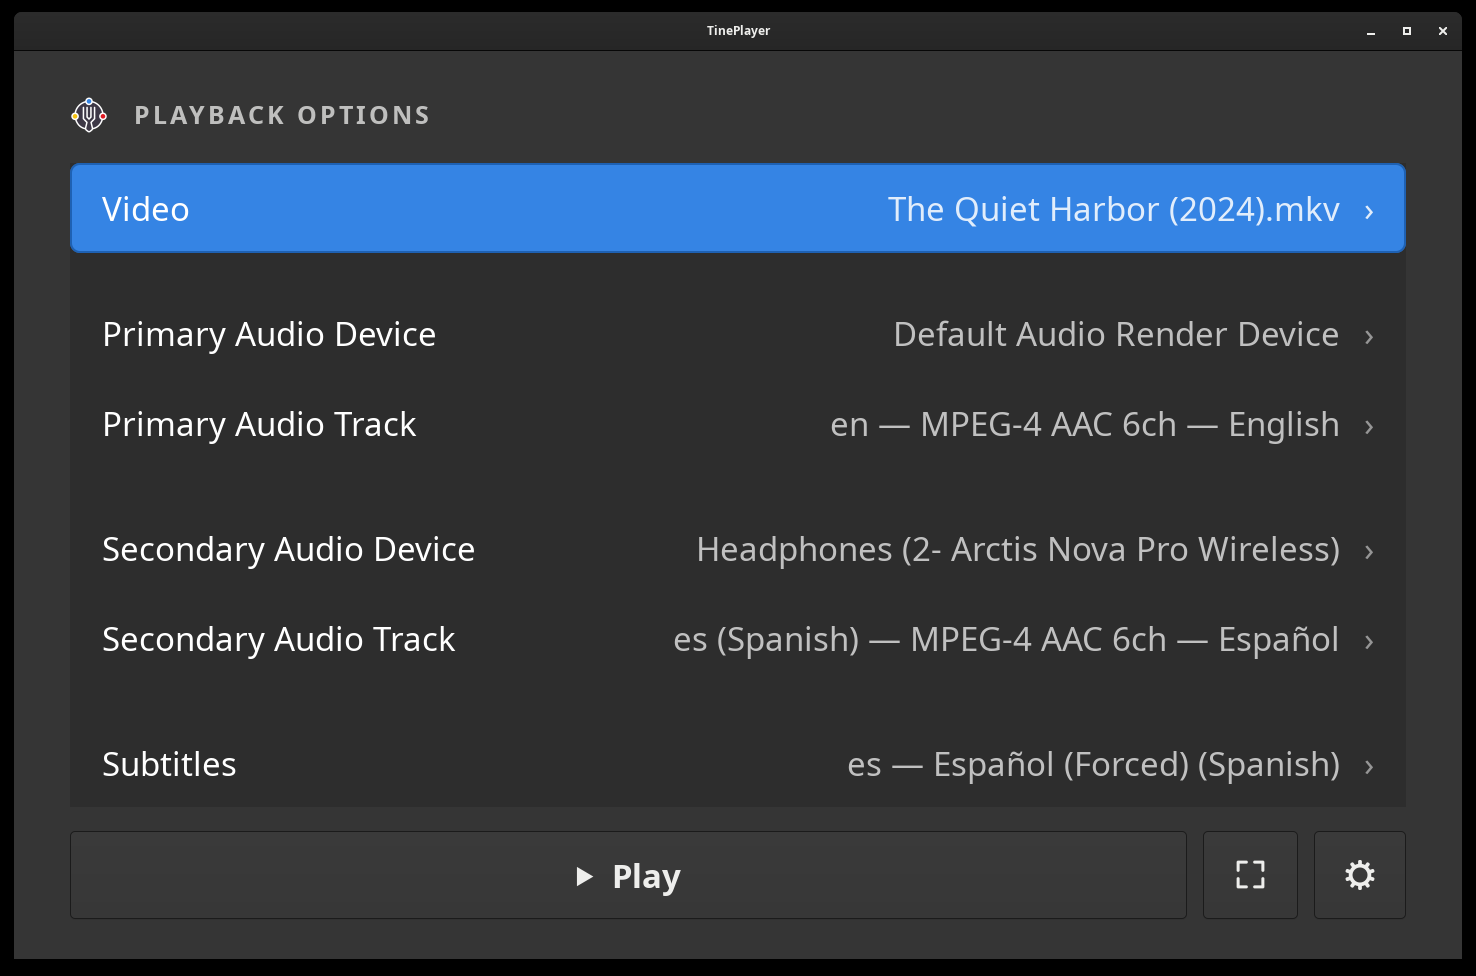
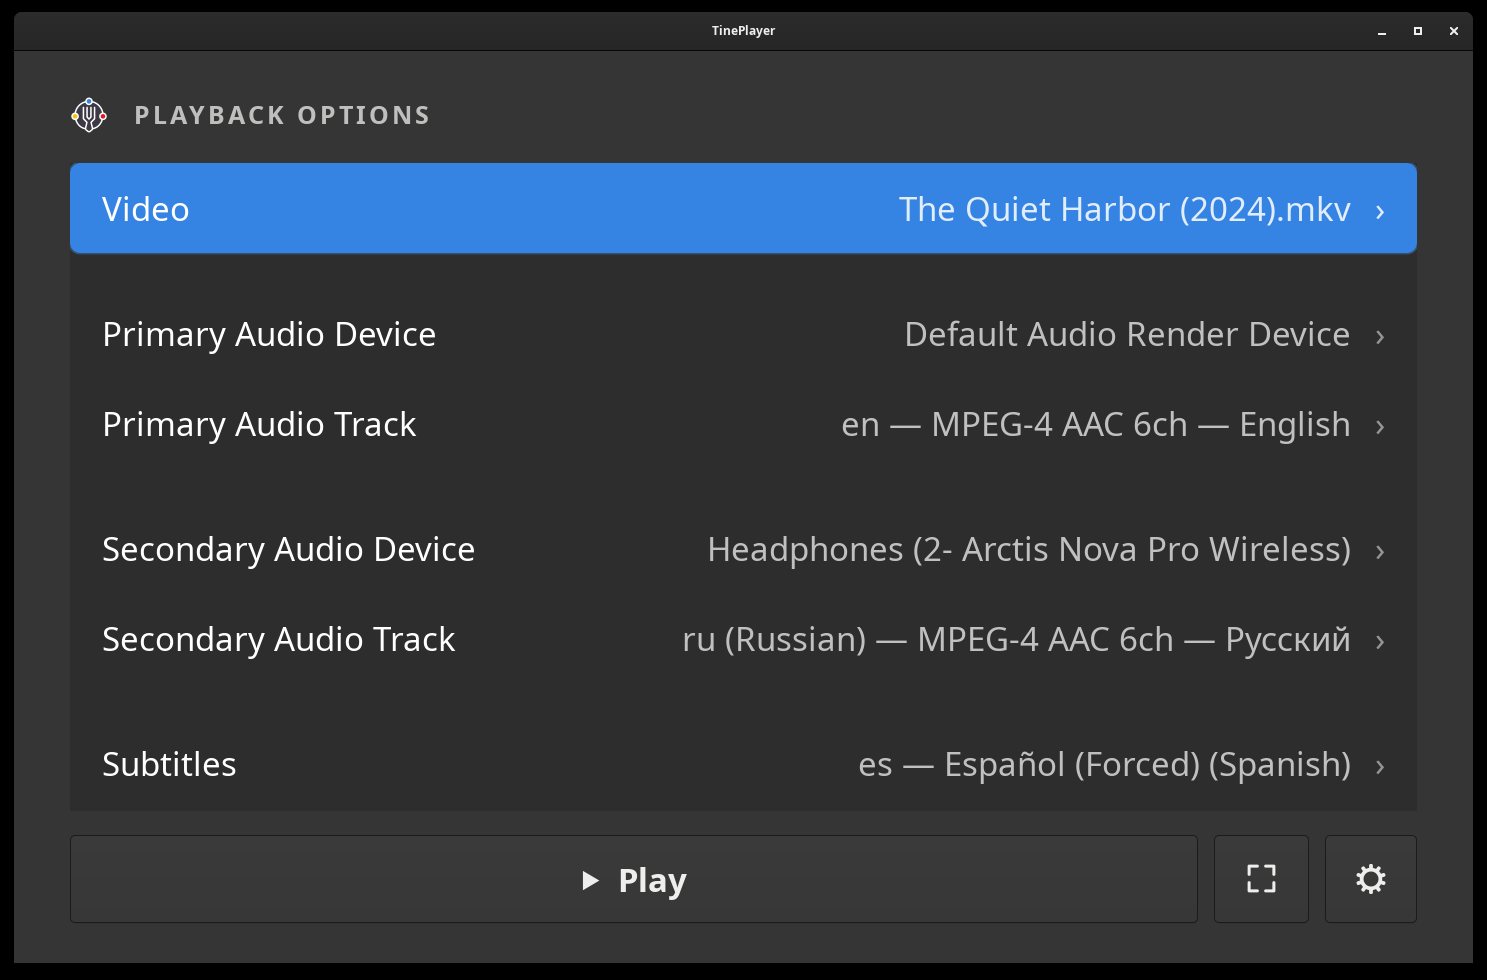
Documentation improvements

diff --git a/README.md b/README.md
@@ -8,6 +8,7 @@
 </p>
 
 <p align="center">
+  <a href="https://github.com/scottarius/TinePlayer/releases/latest"><img src="https://img.shields.io/github/v/release/scottarius/TinePlayer?label=release&color=brightgreen" alt="Latest release"></a>
   <a href="https://github.com/scottarius/TinePlayer/actions/workflows/ci.yml"><img src="https://github.com/scottarius/TinePlayer/actions/workflows/ci.yml/badge.svg" alt="CI"></a>
   <img src="https://img.shields.io/badge/platform-Windows%20%7C%20Linux%20%7C%20macOS-informational" alt="Windows, Linux and macOS">
   <img src="https://img.shields.io/badge/built%20with-Rust%20%2B%20GStreamer-orange" alt="Rust and GStreamer">
@@ -29,7 +30,7 @@ the way it works for them, at the same time, on the same screen, while still
 sharing the experience together.
 
 <p align="center">
-  <img src="docs/screenshots/main-menu.png" width="820" alt="TinePlayer's playback options screen. One video is chosen, and beneath it a primary audio device playing the English track and a secondary device, a pair of headphones, playing the Spanish track. A subtitle track is chosen separately.">
+  <img src="docs/screenshots/main-menu.png" width="820" alt="TinePlayer's playback options: English to the speakers, Russian to the headphones, and Spanish subtitles.">
 </p>
 
 ## Why another video player
@@ -41,10 +42,12 @@ Then one drifts, someone nudges it back, it drifts again, and every pause for
 the door or the kettle means lining both up by hand all over again. You end up
 watching the sync instead of the film.
 
-The other way around is worse. One person just goes without: reads subtitles
-they would rather not need, or misses the description, or listens in a
-language they have to work at. That is usually the option people settle on,
-because it is the one that does not need managing.
+More often nobody rigs anything up at all, and it comes down to one question:
+who goes without? Someone reads subtitles they would rather not need, misses
+the description, or listens in a language they have to work at. It is the
+option that needs no managing, so it is the one people settle on. TinePlayer
+removes the question. Everyone has the film the way it works for them, at the
+same time, on the same screen.
 
 Ordinary players cannot fix this, because choosing a track and choosing a
 speaker are two separate settings rather than a pair, and one copy of a player
@@ -59,7 +62,7 @@ file is demuxed once and each chosen track is piped to its own output device
 from a single pipeline, staying in sync because it is all one clock.
 
 <p align="center">
-  <img src="docs/screenshots/player-controls.png" width="820" alt="A film playing with subtitles shown, and the playback controls along the bottom: elapsed time, a position bar, skip and pause buttons, and buttons for subtitles, volume and fullscreen.">
+  <img src="docs/screenshots/player-controls.png" width="820" alt="A film playing with subtitles, and the playback controls along the bottom.">
 </p>
 
 <p align="center">
@@ -77,9 +80,8 @@ from a single pipeline, staying in sync because it is all one clock.
 - Plays from network sources as well as local files: `http://`, `smb://` and
   network shares
 - Resumes videos with remembered playback time and language/track selections
-- Displays subtitles from embedded tracks and external files, and can choose
-  one automatically, including forced-only
-- Selects tracks automatically from your preferred languages
+- Displays subtitles from embedded tracks and external files, including forced-only support
+- Selects tracks and subtitles automatically from your preferred languages
 - Splits any pair of tracks a file carries, including audio description
   alongside the ordinary soundtrack
 - Independent volume for each output, so a described or second-language track
@@ -99,7 +101,9 @@ from a single pipeline, staying in sync because it is all one clock.
 
 > [!NOTE]
 > Bluetooth audio devices may add 100-200ms of latency and result in the audio
-> being slightly out of sync.
+> being slightly out of sync. See [The sound is not in sync with the
+> video](docs/troubleshooting.md#the-sound-is-not-in-sync-with-the-video) in
+> troubleshooting.
 
 ## Documentation
 

diff --git a/docs/usage.md b/docs/usage.md
@@ -113,11 +113,8 @@ Everything is reachable with a keyboard or a gamepad. A mouse is not required, b
 The playback controls hide themselves after a few seconds of stillness, and
 come back on any interaction.
 
-![The playback control bar across the foot of the video: elapsed time, a
-position bar and the total length, then settings, stop, skip back, pause, skip
-forward, subtitles, volume and fullscreen. The volume button is active, and its
-panel is open above the bar with a separate slider for each of the two output
-devices.](screenshots/control-bar.png)
+![The playback control bar, with the volume panel open above it
+showing a slider for each output.](screenshots/control-bar.png)
 
 Each output keeps its own volume, so the described or second-language track can
 sit at a different level from the one the room is hearing. <kbd>M</kbd> mutes

diff --git a/docs/configuration.md b/docs/configuration.md
@@ -4,9 +4,8 @@ All settings can be configured from the **Settings** menu inside TinePlayer,
 which offers only values that make sense and lists the audio devices this
 machine actually has.
 
-![TinePlayer's settings screen, showing theme, interface size and navigation
-sounds, then the primary audio device with its preferred language, audio
-description preference and volume.](screenshots/settings-menu.png)
+![TinePlayer's settings screen, showing theme, interface size, and the
+primary audio device with its language and volume.](screenshots/settings-menu.png)
 
 The same settings are stored in `config.yaml`, which can be edited directly. TinePlayer reads it at startup, so
 restart it after editing.
